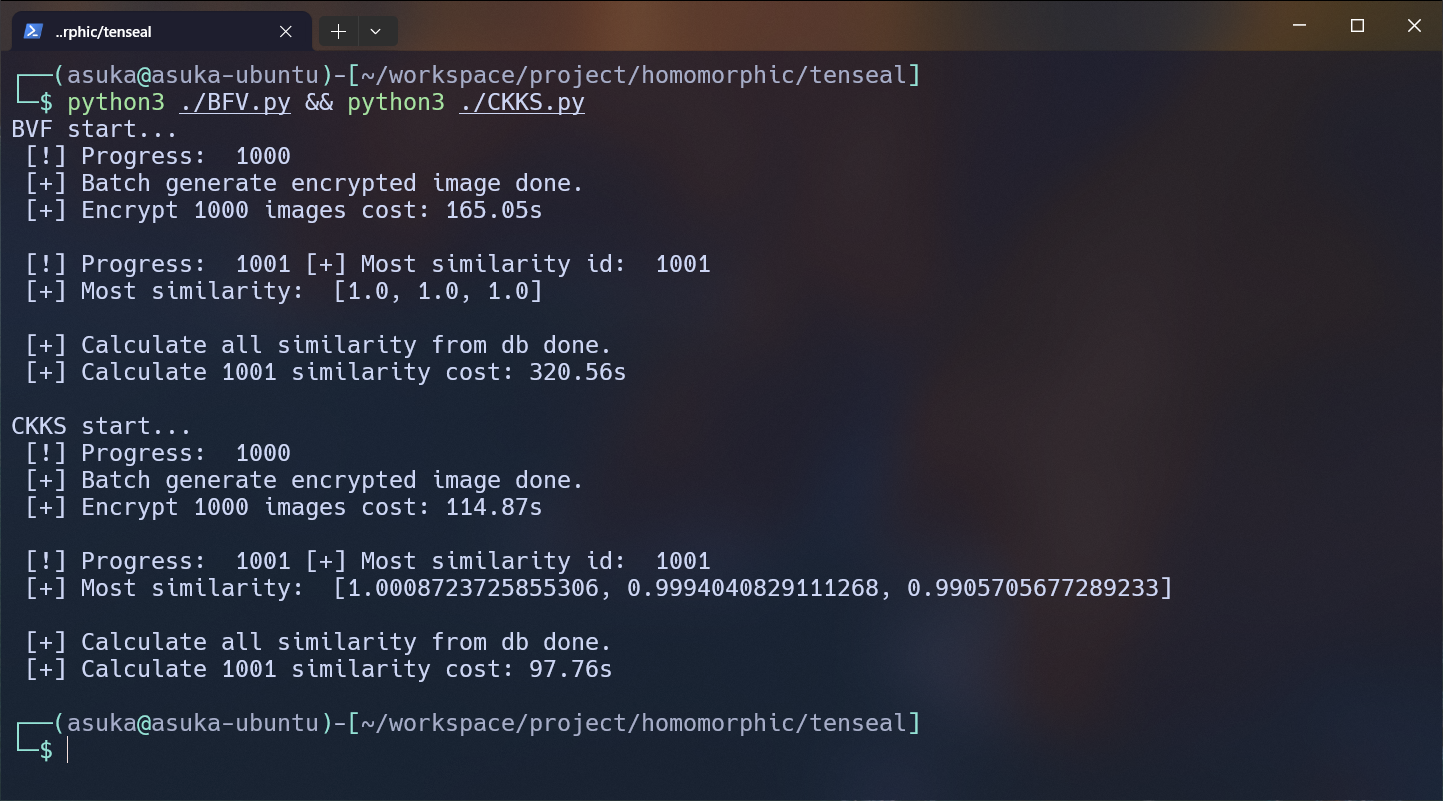
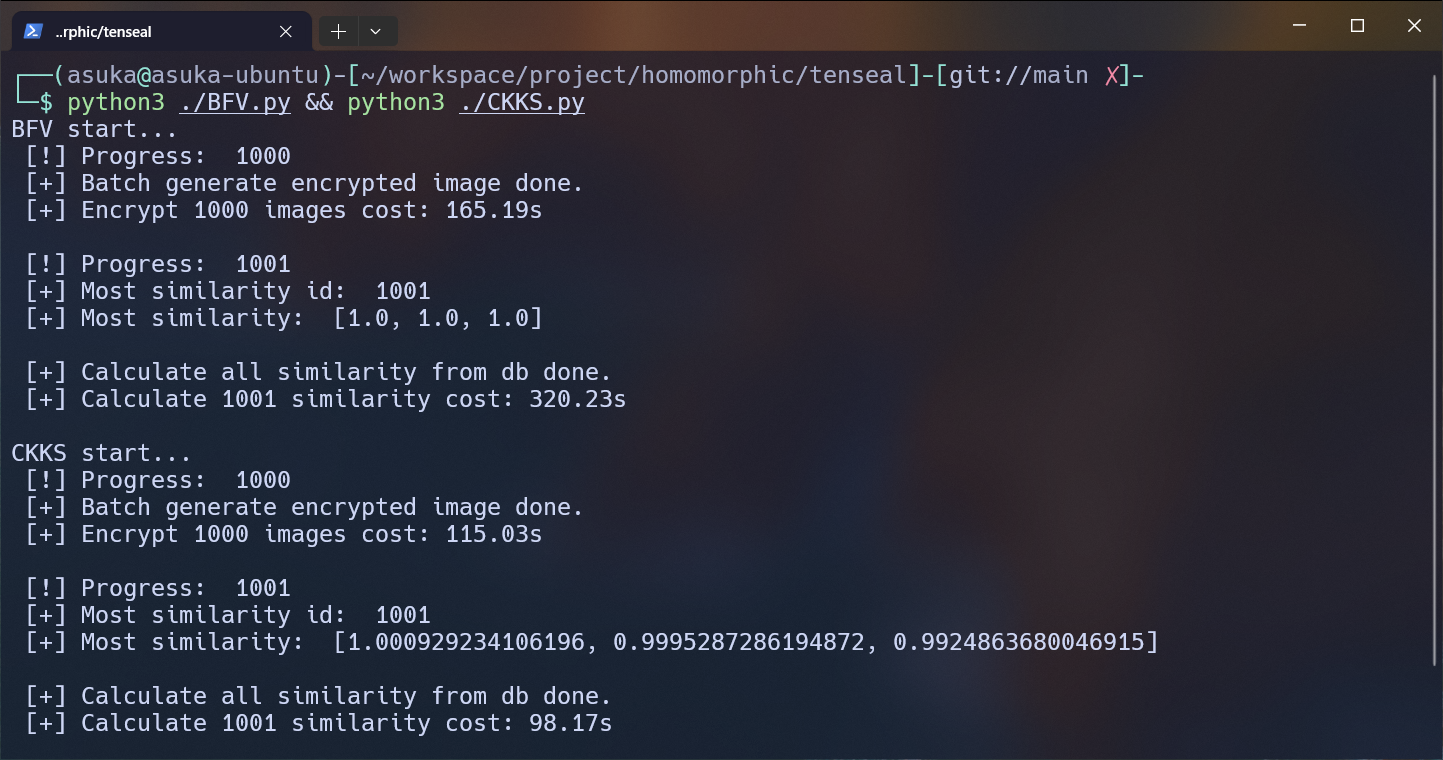
update

diff --git a/BFV.py b/BFV.py
@@ -182,7 +182,7 @@ def cal_all_similarity_from_db(db_path, context, save_path, target_r, target_g, 
 
     most_similarity_index = similarity_list.index(most_similarity)
     most_similarity_id = id_list[most_similarity_index]
-    print(" [+] Most similarity id: ", most_similarity_id)
+    print("\n [+] Most similarity id: ", most_similarity_id)
     print(" [+] Most similarity: ", most_similarity)
     # 保存最相似的图像
     id, encrypted_r_blob, encrypted_g_blob, encrypted_b_blob = load_from_db(db_path, most_similarity_id)
@@ -194,7 +194,6 @@ def cal_all_similarity_from_db(db_path, context, save_path, target_r, target_g, 
 if __name__ == "__main__":
     print("BFV start...")
     context_1 = ts.context(ts.SCHEME_TYPE.BFV, poly_modulus_degree=8192, plain_modulus=1032193)
-    context_1.global_scale = 2**20
     context_1.generate_galois_keys()
 
     image_path = "./image/data/20769.png"

diff --git a/CKKS.py b/CKKS.py
@@ -182,7 +182,7 @@ def cal_all_similarity_from_db(db_path, context, save_path, target_r, target_g, 
         
     most_similarity_index = similarity_list.index(most_similarity)
     most_similarity_id = id_list[most_similarity_index]
-    print(" [+] Most similarity id: ", most_similarity_id)
+    print("\n [+] Most similarity id: ", most_similarity_id)
     print(" [+] Most similarity: ", most_similarity)
     # 保存最相似的图像
     id, encrypted_r_blob, encrypted_g_blob, encrypted_b_blob = load_from_db(db_path, most_similarity_id)

diff --git a/README.md b/README.md
@@ -37,9 +37,15 @@ I use the BFV/CKKS scheme to encrypt the three channels of 1001 images and calcu
 |-|Original Image|BFV Decrypted Image|CKKS Decrypted Image|
 |:---:|:---:|:---:|:---:|
 |Image|![](./asset/20769.png)|![](./asset/BFV_decrypted.png)|![](./asset/CKKS_decrypted.png)|
-|Cosine Similarity|-|[1.0, 1.0, 1.0]|[1.000, 0.999, 0.990]|
+|plain_modulus/global_scale|-|1032193|2^40|
+|Cosine Similarity|-|[1.0, 1.0, 1.0]|[1.000, 0.999, 0.992]|
+|Time Cost encryption|-|165.19 s|115.03 s|
+|Time Cost calculation|-|320.23 s|98.17 s|
 
-> The decrypted image is not exactly the same as the original image because the CKKS scheme use floating-point numbers to represent the encrypted data, which will cause some precision loss. But the decrypted image is still very similar to the original image.
+- The decrypted image is not exactly the same as the original image because the CKKS scheme use floating-point numbers to represent the encrypted data, which will cause some precision loss. But the decrypted image is still very similar to the original image.
 
 Running time of the BFV/CKKS scheme:
+
 ![](./asset/result.png)
+
+- As you can see, the CKKS scheme offers faster encryption and homomorphic operations compared to the BFV scheme. However, the CKKS scheme incurs some precision loss due to the use of floating-point numbers, while the BFV scheme can achieve accurate integer computations.
